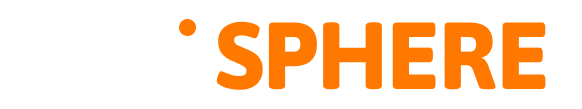
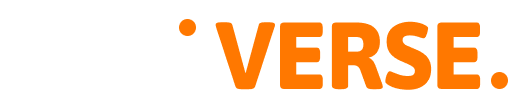
rebrand and adjust UI

Changed region(s): [[0.2807, 0.1651, 0.9357, 0.8257], [0.9357, 0.6606, 0.9981, 0.8257]]

diff --git a/src/components/Timeline/index.vue b/src/components/Timeline/index.vue
@@ -20,7 +20,7 @@
             </v-icon>
           </div>
           <v-divider class="mt-5"></v-divider>
-          <div class="mt-8">
+          <div class="mt-12">
             <div v-for="(item, i) in blogData" :key="i">
               <Card 
                 :title="item.title" 
@@ -39,7 +39,7 @@
         </v-col>
         <v-col md="4" cols="12" class="right-container">
           <div style="height: 100%">
-            <div class="right-content__fla">
+            <div class="right-content__flat">
               <h1 style="font-size: 18px; color: #4f4f4f">Kata - Kata Hari Ini</h1>
               <div class="quote mt-2" >
                 <p style="font-size: 14px; font-style: italic">
@@ -52,8 +52,21 @@
                 </p>
               </div>
             </div>
-            <v-divider class="mt-8"></v-divider>
-            <div class="right-content mt-8">
+            <v-divider class="mt-12"></v-divider>
+            
+            <div class="right-content__flat mt-12">
+              <h1 style="font-size: 18px; color: #4f4f4f">Popular Categories</h1>
+              <div class="mt-4" style="display: flex; align-items: center; flex-wrap: wrap">
+                <div class="scroller-item mb-2" v-for="(item, i) in items.slice(0, 7)" :key="i">
+                  {{ item.name }}
+                </div>
+              </div>
+              <p class="mt-3" style="font-size: 13px; color: #ff7800; text-align: center; font-weight: 500">
+                More categories...
+              </p>
+            </div>
+
+            <div class="right-content mt-12">
               <h1 style="font-size: 18px; color: #4f4f4f">Recent Post</h1>
               <v-row dense class="mt-4 mb-2">
                 <v-col cols="12" v-for="(item, i) in blogData.slice(0, 4)" :key="i">
@@ -75,26 +88,10 @@
                   </p>
                 </v-col>
               </v-row>
-              
             </div>
-            <div class="right-content__flat mt-8">
-              <h1 style="font-size: 18px; color: #4f4f4f">Popular Categories</h1>
-              <div class="mt-4" style="display: flex; align-items: center; flex-wrap: wrap">
-                <div class="scroller-item mb-2" v-for="(item, i) in items.slice(0, 7)" :key="i">
-                  {{ item.name }}
-                </div>
-              </div>
-              <p class="mt-3" style="font-size: 13px; color: #ff7800; text-align: center; font-weight: 500">
-                More categories...
-              </p>
-            </div>
-            <div class="right-content mt-8">
-              <h1>test</h1>
-              <h1>test</h1>
-              <h1>test</h1>
-              <h1>test</h1>
-              <h1>test</h1>
-              <h1>test</h1>
+
+            <div class="right-content__flat mt-12">
+              <h1 style="font-size: 18px; color: #4f4f4f">Top Picks</h1>
             </div>
           </div>
         </v-col>
@@ -219,6 +216,36 @@ export default {
           comments: 20,
           content: 'Nulla condimentum orci non felis tincidunt, at dapibus orci tempor. Aenean in nisi a arcu hendrerit dapibus. Quisque fringilla feugiat risus at volutpat. Integer tempor, sapien at fermentum cursus, magna urna interdum lorem, nec vestibulum urna neque et felis. Sed ultricies sapien ac velit facilisis, in dignissim leo volutpat.'
         }
+      ],
+      accounts: [
+        {
+          name: 'Agus',
+          images: 'images/male/variant-2.png',
+          job: 'Acounting',
+          descriptions: '',
+          topTreads: ''
+        },
+        {
+          name: 'Dita',
+          images: 'images/female/variant-2.png',
+          job: 'Programmer',
+          descriptions: '',
+          topTreads: ''
+        },
+        {
+          name: 'Kinan',
+          images: 'images/female/variant-4.png',
+          job: 'Enterpreneur',
+          descriptions: '',
+          topTreads: ''
+        },
+        {
+          name: 'Dika',
+          images: 'images/male/variant-1.png',
+          job: 'Programmer',
+          descriptions: '',
+          topTreads: ''
+        },
       ],
       items: [
         { id: 1, name: 'For You' },

diff --git a/src/components/Timeline/style.scss b/src/components/Timeline/style.scss
@@ -111,7 +111,6 @@
 .right-content__flat {
   width: 100%;
   border-radius: 6px;
-  padding: 10px;
 }
 
 .quote {
